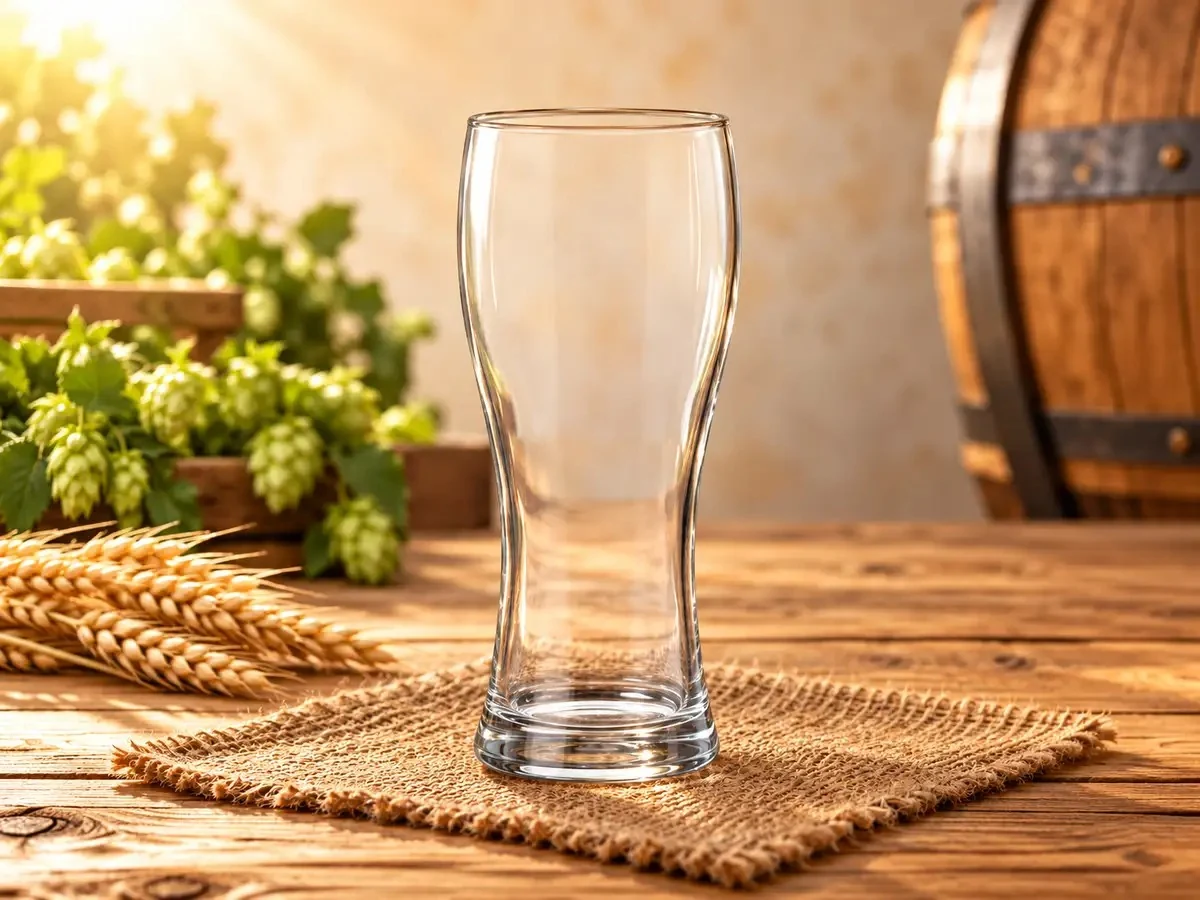
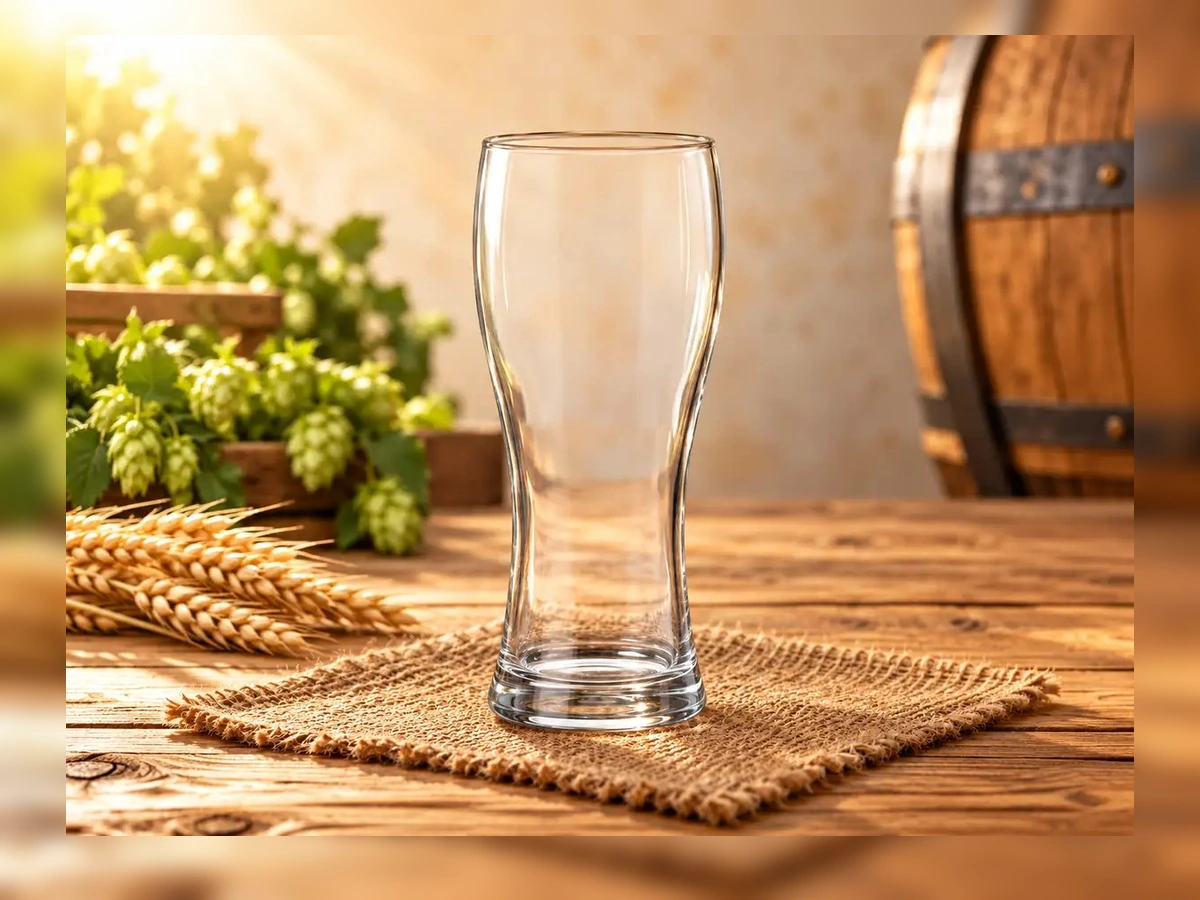
fix(links): correct XZ3006 and XZ10125 PDP routing links in wine-decanters.html

diff --git a/preview/sample-preview-beer-glass-xz076.html b/preview/sample-preview-beer-glass-xz076.html
@@ -3,7 +3,7 @@
 <head>
   <meta charset="UTF-8">
   <meta name="viewport" content="width=device-width, initial-scale=1.0">
-  <title>啤酒杯 XZ076 实拍大图与 4:3 视口修复首件打样预览 | Jingyue Glass</title>
+  <title>啤酒杯 XZ076 主体突出与无遮挡优化打样预览 | Jingyue Glass</title>
   <link rel="icon" type="image/png" href="/assets/jingyue-favicon.png">
   <style>
     :root {
@@ -18,66 +18,94 @@
     }
     * { box-sizing: border-box; margin: 0; padding: 0; }
     body { font-family: -apple-system, BlinkMacSystemFont, 'Segoe UI', Roboto, sans-serif; background: var(--light-bg); color: var(--dark); line-height: 1.6; }
-    header { background: var(--white); border-bottom: 1px solid var(--border); padding: 14px 20px; }
-    .nav { max-width: 1000px; margin: 0 auto; display: flex; justify-content: space-between; align-items: center; }
+    
+    header { background: var(--white); border-bottom: 1px solid var(--border); padding: 14px 20px; position: sticky; top: 0; z-index: 100; }
+    .nav { max-width: 1200px; margin: 0 auto; display: flex; justify-content: space-between; align-items: center; }
     .brand { font-size: 1.2rem; font-weight: 800; color: var(--primary); text-decoration: none; }
     .brand span { color: var(--accent); }
-    
-    .hero { background: linear-gradient(135deg, var(--primary-dark) 0%, var(--primary) 100%); color: #fff; padding: 40px 20px; text-align: center; }
+
+    .hero { background: linear-gradient(135deg, var(--primary-dark) 0%, var(--primary) 100%); color: #fff; padding: 44px 20px; text-align: center; }
     .hero-badge { display: inline-block; background: rgba(200,147,10,0.25); border: 1px solid rgba(200,147,10,0.5); color: #fef08a; padding: 4px 14px; border-radius: 20px; font-size: 0.8rem; font-weight: 700; text-transform: uppercase; margin-bottom: 10px; }
     .hero h1 { font-size: 1.8rem; font-weight: 800; margin-bottom: 8px; }
-    .hero p { font-size: 0.95rem; color: #cbd5e1; max-width: 700px; margin: 0 auto; }
+    .hero p { font-size: 0.95rem; color: #cbd5e1; max-width: 800px; margin: 0 auto; }
 
-    .container { max-width: 1000px; margin: 30px auto; padding: 0 20px; }
-    .sample-box { background: var(--white); border-radius: 12px; border: 1px solid var(--border); padding: 24px; box-shadow: 0 4px 16px rgba(0,0,0,0.06); display: grid; grid-template-columns: 1.2fr 1fr; gap: 24px; }
-    @media(max-width: 700px) { .sample-box { grid-template-columns: 1fr; } }
-
-    .img-container { width: 100%; aspect-ratio: 4 / 3; background: #222; border-radius: 8px; overflow: hidden; position: relative; }
-    .img-container img { width: 100%; height: 100%; object-fit: cover; display: block; }
-    .tag { position: absolute; top: 12px; left: 12px; background: rgba(13,37,64,0.85); color: #fef08a; font-size: 0.75rem; font-weight: 700; padding: 4px 10px; border-radius: 4px; }
-
-    .detail-side { display: flex; flex-direction: column; justify-content: center; }
-    .detail-side h2 { font-size: 1.3rem; color: var(--primary-dark); margin-bottom: 8px; }
-    .spec-list { list-style: none; margin: 16px 0; }
-    .spec-list li { padding: 6px 0; border-bottom: 1px solid #f1f5f9; font-size: 0.9rem; display: flex; justify-content: space-between; }
-    .spec-list li strong { color: #475569; }
+    .container { max-width: 1200px; margin: 32px auto 60px; padding: 0 20px; }
     
-    .status-badge { background: #f0fdf4; border: 1px solid #bbf7d0; color: #16a34a; font-weight: 700; font-size: 0.85rem; padding: 6px 12px; border-radius: 6px; margin-bottom: 16px; text-align: center; }
-    .btn { display: block; text-align: center; background: var(--accent); color: #fff; text-decoration: none; padding: 10px; border-radius: 6px; font-weight: 700; transition: background 0.2s; }
+    .view-grid { display: grid; grid-template-columns: 1fr 1fr; gap: 28px; }
+    @media(max-width: 800px) { .view-grid { grid-template-columns: 1fr; } }
+
+    .preview-card { background: var(--white); border-radius: 12px; border: 1px solid var(--border); padding: 24px; box-shadow: 0 4px 16px rgba(0,0,0,0.06); display: flex; flex-direction: column; }
+    .card-header { border-bottom: 2px solid #f1f5f9; padding-bottom: 12px; margin-bottom: 18px; }
+    .card-tag { display: inline-block; font-size: 0.75rem; font-weight: 700; color: #fff; background: var(--primary); padding: 3px 10px; border-radius: 4px; margin-bottom: 6px; }
+    .card-tag.accent { background: var(--accent); }
+    .card-header h2 { font-size: 1.15rem; color: var(--primary-dark); font-weight: 800; }
+    .card-header p { font-size: 0.85rem; color: #64748b; margin-top: 4px; }
+
+    /* Image Container (1200x900, 4:3) */
+    .img-box { width: 100%; aspect-ratio: 4 / 3; background: #222; border-radius: 8px; overflow: hidden; border: 1px solid var(--border); }
+    .img-box img { width: 100%; height: 100%; object-fit: cover; display: block; }
+
+    .feature-list { list-style: none; margin: 18px 0; font-size: 0.88rem; }
+    .feature-list li { padding: 6px 0; border-bottom: 1px solid #f8fafc; display: flex; justify-content: space-between; }
+    .feature-list li strong { color: #475569; }
+    .feature-list li span { color: #16a34a; font-weight: 700; }
+
+    .btn { display: block; text-align: center; background: var(--accent); color: #fff; text-decoration: none; padding: 10px; border-radius: 6px; font-weight: 700; font-size: 0.9rem; margin-top: auto; transition: background 0.2s; }
     .btn:hover { background: var(--accent-hover); }
   </style>
 </head>
 <body>
   <header>
     <div class="nav">
-      <a href="/beer-glasses" class="brand">Jingyue Glass <span>· 啤酒杯实拍修复打样</span></a>
-      <a href="/beer-glasses" style="color:var(--accent);font-weight:700;text-decoration:none;" target="_blank">访问品类页 →</a>
+      <a href="/beer-glasses" class="brand">Jingyue Glass <span>· XZ076 主体突出与无遮挡优化</span></a>
+      <a href="/beer-glasses" style="color:var(--accent);font-weight:700;text-decoration:none;" target="_blank">访问线上分类页 →</a>
     </div>
   </header>
 
   <section class="hero">
-    <span class="hero-badge">Sample Inspection</span>
-    <h1>首件打样验证：480ml Flared Pilsner Beer Glass (XZ076)</h1>
-    <p>已替换为 1200×900 (4:3) 麦穗与木桶实拍大图，并完成品类网格与 PDP 视口 CSS 修复，杯口与杯底 100% 完整展示，不再被顶部裁剪。</p>
+    <span class="hero-badge">Prominent Subject & Zero Occlusion</span>
+    <h1>480ml Flared Pilsner Beer Glass (XZ076) 预览打样</h1>
+    <p>主体放大突出，保留顶部 35px 麦穗自然呼吸空间，杯口与杯身 100% 完整无遮挡；分类页与单品详情页统一采用该高清实拍大图。</p>
   </section>
 
   <div class="container">
-    <div class="sample-box">
-      <div class="img-container">
-        <img src="/assets/products/beer-glasses/xz076-flared-pilsner-beer-glass.webp" alt="480ml Flared Pilsner Beer Glass XZ076">
-        <span class="tag">Pilsner Glass · Model XZ076</span>
-      </div>
-      <div class="detail-side">
-        <div class="status-badge">✓ 4:3 比例自适应生效 · 杯口完整无截断</div>
-        <h2>480ml Flared Pilsner Beer Glass</h2>
-        <ul class="spec-list">
-          <li><strong>产品型号 (Item No.):</strong> <span>XZ076</span></li>
-          <li><strong>额定容量 (Capacity):</strong> <span>480 ml</span></li>
-          <li><strong>物理规格 (Dimensions):</strong> <span>H 18.3 cm × Ø 7.7 cm</span></li>
-          <li><strong>主图文件 (Image):</strong> <span>xz076-flared-pilsner-beer-glass.webp</span></li>
-          <li><strong>图片比例 (Aspect Ratio):</strong> <span>4:3 (1200 × 900 px)</span></li>
+    <div class="view-grid">
+      <!-- Left: Category Page View -->
+      <div class="preview-card">
+        <div class="card-header">
+          <span class="card-tag">分类列表页效果</span>
+          <h2>/beer-glasses 产品卡展示</h2>
+          <p>4:3 标准比例，杯身放大居中突出，杯口清晰展现</p>
+        </div>
+        <div class="img-box">
+          <img src="/assets/products/beer-glasses/xz076-flared-pilsner-beer-glass.webp" alt="Category Beer Glass XZ076">
+        </div>
+        <ul class="feature-list">
+          <li><strong>主体占比 (Subject Prominence):</strong> <span>约 89% 黄金居中放大</span></li>
+          <li><strong>杯口遮挡 (Occlusion Status):</strong> <span>✓ 100% 无遮挡 / 顶部保留 35px</span></li>
+          <li><strong>分辨率与比例 (Specs):</strong> <span>1200 × 900 px (4:3)</span></li>
+          <li><strong>对齐状态 (Alignment):</strong> <span>分类与详情页统一图片源</span></li>
         </ul>
-        <a href="/flared-pilsner-beer-glass-xz076" class="btn" target="_blank">预览 XZ076 独立 PDP 页面 →</a>
+        <a href="/beer-glasses#xz076" class="btn" target="_blank">查看分类页产品卡效果 →</a>
+      </div>
+
+      <!-- Right: PDP Detail Page View -->
+      <div class="preview-card">
+        <div class="card-header">
+          <span class="card-tag accent">产品详情页效果</span>
+          <h2>/flared-pilsner-beer-glass-xz076 详情页主图</h2>
+          <p>与分类页统一使用相同实拍大图，4:3 高保真自适应展示</p>
+        </div>
+        <div class="img-box">
+          <img src="/assets/products/beer-glasses/xz076-flared-pilsner-beer-glass.webp" alt="PDP Beer Glass XZ076">
+        </div>
+        <ul class="feature-list">
+          <li><strong>图片来源 (Image Source):</strong> <span>与分类页完全统一</span></li>
+          <li><strong>视口适配 (Aspect Ratio):</strong> <span>4:3 黄金视口（无白边黑边）</span></li>
+          <li><strong>杯身展示 (Glass Clarity):</strong> <span>加厚加重底座与喇叭杯口全貌</span></li>
+          <li><strong>高清画质 (Quality):</strong> <span>94% WebP 高保真</span></li>
+        </ul>
+        <a href="/flared-pilsner-beer-glass-xz076" class="btn" target="_blank">进入独立详情页查看主图效果 →</a>
       </div>
     </div>
   </div>

diff --git a/wine-decanters.html b/wine-decanters.html
@@ -922,10 +922,10 @@
       </div>
     </div>
     <div class="product-card" id="card-xz3006">
-      <a href="/diamond-cut-crystal-tumbler-xz3006"><img src="/assets/products/decanters/xz3006-750-ml-minimalist-square-whiskey-decanter-new-20260917.webp" alt="750 ml Minimalist Square Whiskey Decanter - Wholesale Factory Direct China" loading="lazy" decoding="async"></a>
+      <a href="/minimalist-square-whiskey-decanter-xz3006"><img src="/assets/products/decanters/xz3006-750-ml-minimalist-square-whiskey-decanter-new-20260917.webp" alt="750 ml Minimalist Square Whiskey Decanter - Wholesale Factory Direct China" loading="lazy" decoding="async"></a>
       <div class="product-card-body">
         <span class="product-tag">Whiskey Decanters · XZ3006</span>
-        <h3><a href="/diamond-cut-crystal-tumbler-xz3006" style="color:inherit;text-decoration:none;">750 ml Minimalist Square Whiskey Decanter</a></h3>
+        <h3><a href="/minimalist-square-whiskey-decanter-xz3006" style="color:inherit;text-decoration:none;">750 ml Minimalist Square Whiskey Decanter</a></h3>
         <p>XZ3006 is a 750 ml square whiskey decanter with a clean 91 × 91 mm body and 223 mm height. The minimalist straight-sided design provides a versatile platform for whiskey, bourbon or brandy packaging, gift sets, hotel service and logo customization.</p>
         <div class="product-specs">
           <span class="spec-tag">750 ml</span>
@@ -936,10 +936,10 @@
       </div>
     </div>
     <div class="product-card" id="card-xz10125">
-      <a href="/vintage-heavy-whiskey-glass-xz10125"><img src="/assets/products/decanters/xz10125-800-ml-twisted-texture-whiskey-decanter-new-20260917.webp" alt="800 ml Twisted-Texture Whiskey Decanter - Wholesale Factory Direct China" loading="lazy" decoding="async"></a>
+      <a href="/twisted-texture-whiskey-decanter-xz10125"><img src="/assets/products/decanters/xz10125-800-ml-twisted-texture-whiskey-decanter-new-20260917.webp" alt="800 ml Twisted-Texture Whiskey Decanter - Wholesale Factory Direct China" loading="lazy" decoding="async"></a>
       <div class="product-card-body">
         <span class="product-tag">Whiskey Decanters · XZ10125</span>
-        <h3><a href="/vintage-heavy-whiskey-glass-xz10125" style="color:inherit;text-decoration:none;">800 ml Twisted-Texture Whiskey Decanter</a></h3>
+        <h3><a href="/twisted-texture-whiskey-decanter-xz10125" style="color:inherit;text-decoration:none;">800 ml Twisted-Texture Whiskey Decanter</a></h3>
         <p>XZ10125 is an 800 ml whiskey decanter with a tall 271 mm silhouette, 112 × 112 mm body and twisted lower-wall texture. Its sculpted stopper and distinctive base detail suit premium spirits, home-bar displays, corporate gifts and private-label decanter collections.</p>
         <div class="product-specs">
           <span class="spec-tag">800 ml</span>

diff --git a/beer-glasses.html b/beer-glasses.html
@@ -1131,7 +1131,7 @@
     </div>
           <!-- Card 11: XZ076 -->
           <div class="product-card" id="card-xz076">
-            <a href="/flared-pilsner-beer-glass-xz076"><img src="/assets/products/beer-glasses/xz076-flared-pilsner-beer-glass.webp" alt="XZ076 480ml Flared Pilsner Beer Glass Wholesale" loading="lazy" decoding="async"></a>
+            <a href="/flared-pilsner-beer-glass-xz076"><img src="/assets/products/beer-glasses/xz076-flared-pilsner-beer-glass.webp?v=20261029_prominent" alt="XZ076 480ml Flared Pilsner Beer Glass Wholesale" loading="lazy" decoding="async"></a>
             <div class="product-card-body">
               <div class="product-tag">Pilsner Glass · Model XZ076</div>
               <h3><a href="/flared-pilsner-beer-glass-xz076" style="color:inherit;text-decoration:none;">480ml Flared Pilsner Beer Glass</a></h3>

diff --git a/flared-pilsner-beer-glass-xz076.html b/flared-pilsner-beer-glass-xz076.html
@@ -200,7 +200,7 @@
     <div class="pdp-gallery">
       <div class="pdp-hero-wrap">
         <span class="pdp-hero-badge">Direct Factory · Lead-Free</span>
-        <img src="/assets/products/beer-glasses/xz076-flared-pilsner-beer-glass.webp" alt="XZ076 480 ml Flared Pilsner Beer Glass Wholesale Factory Direct China" class="pdp-hero-img" loading="eager" decoding="async">
+        <img src="/assets/products/beer-glasses/xz076-flared-pilsner-beer-glass.webp?v=20261029_prominent" alt="XZ076 480 ml Flared Pilsner Beer Glass Wholesale Factory Direct China" class="pdp-hero-img" loading="eager" decoding="async">
       </div>
       <div style="font-size:0.8rem; color:#64748b; margin-top:10px; font-weight:600;">
         Model: <strong>XZ076</strong> · Commercial Lead-Free Glass
